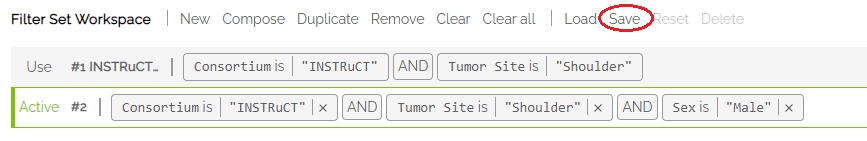
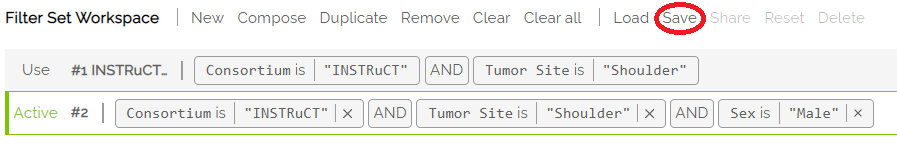
Changes from v1.12.0
Changes include new screen shots where the Filter Set Workspace appears. Addition of Share function in workspace. Changes to Survival Curve: End Time, Time Interval.

Changed region(s): [[0.0, 0.3688, 1.0, 0.9362], [0.0, 0.0, 0.9654, 0.2553]]

diff --git a/docs/DataPortalUserGuide.md b/docs/DataPortalUserGuide.md
@@ -1,7 +1,7 @@
 ![Logo](img/PcdcLogo.png)
 
 # Pediatric Cancer Data Commons<br> Data Portal User Guide
-###### v1.11.0 User Guide
+###### v1.12.0 User Guide
 ## Introduction
 
 The Pediatric Cancer Data Commons (PCDC) brings together clinical, genomic, and imaging data from institutions around the world that are working to transform pediatric cancer research and outcomes. Headquartered at the University of Chicago, the PCDC works with international leaders in pediatric cancers and the US National Cancer Institute to develop and apply uniform data standards, facilitating the collection, combination, and analysis of data from many different sources. 
@@ -210,9 +210,11 @@ Filter Set Workspace commands allow the user to load, save and make changes to f
 - **Remove**: Removes the active filter set from the workspace and makes the filter set at the top of the list active.
 - **Clear**: Clears the filter selections from the active filter set.
 -  **Clear all**: Clears the Workspace of all filter sets
-- **Load**: Loads a saved filter set to the Workspace
+- **Load**: Loads a saved filter set to the Workspace. The filter set can be the user's own saved filter set or a filter set defined by a shared token from another user (see "Share" below).
 - **Save**: Saves the active filter set. Changing the name of an existing filter set will save it with the new name.
+- **Share**: Generates a token that can be emailed to other users to re-create the selected filter set. 
 - **Reset**: When a change is made to the active filter, Reset will revert any changes to the saved version of the filter set. If the filter set was not previously saved, Reset will not be active.
+- **Delete**: Deletes the selected filter set, removing it from the screen and from the user's saved filters.
 
 #### Saving a Filter Set
 
@@ -279,13 +281,15 @@ The survival curve can be adjusted using the options available.
 ![Survival Analysis](img/image28.png)
 
 
+The **Consortium** field indicates which disease groups have data available to create a survival curve. 
+
 The **Survival type** drop down can be used to select Overall or Event-Free survival. 
 
-**Start time** can be used to select the start time of the x-axis. Default is zero (0).
+**Start time** is used to select the start time of the x-axis. Default is zero (0).
 
-**End time** is used to select the maximum time (in years) that will appear on the x-axis. 
+**End time** is used to select the maximum time (in years) that will appear on the x-axis. The default is five years. If left blank, the maximum number of years will be shown for which data is available. 
 
-**Time interval** is used to determine the frequency of hash marks appearing on the x-axis, both on the survival curve and in the Number at risk table shown below the curve. 
+**Time interval** is used to determine the frequency of hash marks appearing on the x-axis, both on the survival curve and in the Number at risk table shown below the curve. Default is one year. 
 
 ### Query
 The **Query** page is used to create queries using the GraphiQL tool. (additional information to be provided in a future release of the User Guide).
